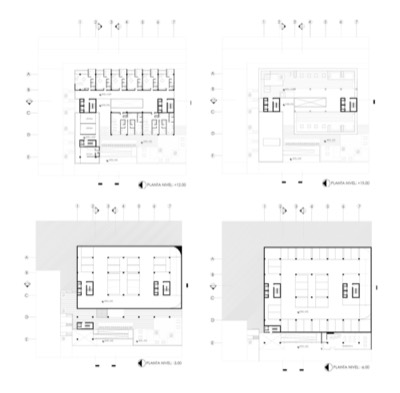
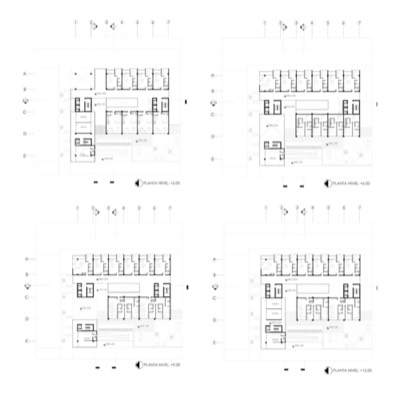
Edificio Nexo: planta del nivel 0,00 en su propia lámina

diff --git a/src/proyectos.js b/src/proyectos.js
@@ -218,8 +218,9 @@ export const disenos = [
       'Axonometrías',
       'Análisis: ubicación y uso mixto',
       'Análisis: estructura, envolvente y circulación',
-      'Plantas de los niveles 0,00 (cafetería, gimnasio y local comercial), +3,00, +6,00 y +9,00 (vivienda y oficinas)',
-      'Plantas de los niveles +12,00 (vivienda y oficinas), +15,00 (terrazas), −3,00 y −6,00 (estacionamientos y hemeroteca)',
+      'Planta nivel 0,00: cafetería, gimnasio y local comercial',
+      'Plantas de los niveles +3,00, +6,00, +9,00 y +12,00: vivienda y oficinas',
+      'Plantas de los niveles +15,00 (terrazas), −3,00 y −6,00 (estacionamientos y hemeroteca)',
       'Sección',
     ]),
   },

diff --git a/CLAUDE.md b/CLAUDE.md
@@ -113,7 +113,7 @@ Sitio en vivo: Vercel, desplegado automáticamente desde `main` de https://githu
 - `centro-comunitario` (10, rehecho el 2026-11-16; T4 `CENTRO COMUNITARIO.pdf`, 9 láminas horizontales con franja inferior USFQ + nombres, nunca incluirla): 01 vista desde la González Suárez y 02 vista del ingreso (pág. 2 `[.648,.04,.934,.293]`, `[.648,.343,.934,.582]`) · 03–06 **láminas limpias**: "El lugar" + "Equinoccio" con la implantación (pág. 2 `[.064,.056,.51,.551]`, bordes difuminados); "Partido" + "Forma" con 4 diagramas (pág. 1 `[.021,.196,.181,.315]`, `[.016,.32,.186,.438]`, `[.035,.48,.175,.578]`, `[.028,.592,.186,.728]` con fondo gris 241 blanqueado); "Estructura" + "Luz y circulación" con estructura `[.039,.772,.173,.92]` y el despiece `[.435,.05,.725,.497]` (leyenda original borrada y **rehecha en HTML**: Envolvente, Núcleos, Circulación horizontal, Terrazas y muebles fijos, Patio de esculturas); "Programa" con la separación del programa `[.435,.487,.737,.69]` · 07 planta 0,00 (pág. 3) · 08 plantas +4,50 y +9,50 apiladas (pág. 4) · 09 planta −4,00 (pág. 5) · 10 secciones A-A′ y B-B′ apiladas (pág. 6), rótulos de escala borrados o fuera del recorte. **Fuera**: vistas interiores, axonometrías (pág. 9), fachadas (págs. 7–8), cuadro de áreas, diagrama servidor/servido. Portada (axonometría) sin cambios; **franja del inicio = vista del ingreso** (`centro-comunitario/02.jpg`, `pos` 50% 68%), pedido de Joaquín. Lámina 05: despiece centrado en la hoja (pedido de Joaquín). Lámina 04: los 4 diagramas en cuadrícula 2 × 2 de celdas iguales (380 px de alto, imagen centrada, `align-content:center`), pedido de Joaquín: "disparejos" → ordenados. Gramática de las 4 láminas revisada.
 - `facultad-arquitectura` (9, rehecha el 2026-11-16; Joaquín pidió quitar las 2 vistas aéreas y las 2 secciones en perspectiva, y **unir plantas en láminas blancas, una encima de otra**: hoy 01 vista del conjunto, 02 vista desde la calle, 03–05 láminas limpias, 06 planta nivel 0, 07 plantas +3 y +6, 08 plantas +10,50, +14 y −3 (HTML: plantas de 1760 px de ancho con pie gris en Avenir Next), 09 sección con **ejes aclarados** (`ejes.mjs sec.jpg out 300 300 540 0.3`: círculos y líneas finas de eje al 30 %; pedido de Joaquín: "menos invasivos") y **niveles aclarados igual** (`aclara.mjs in out 150 0.3 50,680,197,315`: rótulos "N+ …" y sus líneas); lo que sigue es la versión de 16: T5 `ENTREGA FINAL.pdf`, 5 págs. de 1413×2000 con franja USFQ abajo): 01–04 vistas 3D (pág. 5 `[.003,.642,.49,.838]`, `[.01,.396,.482,.585]`, `[.509,.396,.978,.584]`, `[.5,.642,.989,.838]`) · 05–07 **láminas limpias**: "Concepto" + organigrama (pág. 1 `[.54,.064,.88,.21]`) + implantación (`[.488,.237,.928,.524]`, `oscurece.mjs` gamma 5); "Núcleo central" + "Aulas" con fluidez espacial `[.08,.229,.435,.312]` y ejes `[.068,.334,.48,.418]`; "Estructura" + "Articulación" con estructura `[.578,.528,.915,.63]`, articulación `[.058,.548,.47,.62]` y malla `[.044,.432,.48,.525]` (textos de Estructura y Articulación escritos por Claude a partir de los dibujos y renders: la lámina no tenía texto para eso) · 08–13 plantas 0, +3, +6 (pág. 2), +10,50, +14 (pág. 3) y −3 (pág. 2, recortada a la izquierda), rótulos "PLANTA NIVEL … ESC" borrados enteros · 14 sección longitudinal (pág. 1 `[.03,.632,.94,.932]`) · 15–16 secciones en perspectiva (pág. 5 `[.035,.093,.446,.274]`, `[.459,.093,.833,.274]`). Sin fachadas, sin los 4 cortes del espacio jerárquico ni los 2 cortes transversales. Portada y franja sin cambios.
 - `biblioteca` (10, rehecha el 2026-11-16; **franja del inicio = imagen 02, vista del conjunto** (`biblioteca/02.jpg`, `pos` 50% 10%), pedido de Joaquín; **Joaquín pidió quitar las 2 axonometrías y las 2 vistas interiores** (hall y sala de lectura): hoy 01 vista Juan de Azcaray, 02 vista del conjunto, 03–06 láminas limpias, 07 implantación, 08 planta baja, 09 plantas altas, 10 secciones; lo que sigue es la versión de 14: T6 `ENTREGA FINAL.pdf`, 8 págs., horizontales 2000×1413 (1, 3, 4, 6) y verticales 1413×2000 (2, 5, 7, 8)): 01 vista Juan de Azcaray (pág. 7 `[.038,.645,.957,.94]`) · 02 vista del conjunto (pág. 1 `[.296,.705,.97,.977]`) · 03–04 axonometrías (pág. 8 `[.04,.05,.96,.45]`, `[.04,.475,.96,.85]`; rótulos fantasma casi blancos borrados con `blanquea_claros.mjs`, marco derecho borrado) · 05–08 **láminas limpias**: "Dualidad" + círculos del punto de inflexión (pág. 1 `[.33,.12,.94,.375]`); "Forma" + partido `[.345,.415,.445,.695]`, programa `[.77,.455,.965,.68]` (rótulo tapado "LECCIÓN" reescrito como "COLECCIÓN" en Arial 37 px) y forma (pág. 2); "Circulación" + "Espacialidad"; "Envolvente" + "Estructura" (diagramas de la pág. 2, aislados de los vecinos con `conserva.mjs`) · 09 implantación (pág. 3 `[.032,.16,.507,.832]`) · 10 planta baja (`[.508,.16,.962,.832]`) · 11 primera, segunda y tercera planta lado a lado (pág. 4) · 12 secciones longitudinal y transversal apiladas (pág. 7 `[.035,.045,.957,.179]` y `[.035,.195,.957,.328]`, niveles aclarados) · 13 hall de ingreso y 14 sala de lectura (pág. 6, sin sus rótulos). **Fuera**: cuadro de áreas, 4 alzados, 2 cortes fugados, los otros 2 cortes de la pág. 7. Textos de las láminas resumidos de la pág. 1 y 2. Portada y franja sin cambios.
-- `edificio-nexo` (7, rehecho el 2026-11-16; **plantas juntadas** a pedido de Joaquín en dos láminas 2 × 2: 05 = 0, +3, +6, +9 y 06 = +12, +15, −3, −6 (bordes del marco original borrados), 07 sección; antes: **Joaquín pidió quitar la 02, vista desde la calle Carlos Arroyo** —la numeración que sigue es la anterior: hoy todo corre un número—; páginas de 1413×2000 con franja USFQ abajo, nunca incluirla): 01 vista desde la calle José Correa (pág. 6 `[0,.008,1,.39]`, título borrado con `rellena.mjs` 0,0,880,85 a 2400 px) · 02 render de la esquina (pág. 1 `[.348,0,1,.258]`) · 03 las 4 axonometrías juntas (pág. 6 `[0,.418,1,.862]`) · 04 **lámina limpia** "Ubicación" + "Uso mixto" con la implantación (pág. 1 `[.348,.285,1,.648]`, `lado` 2800, **líneas oscurecidas con `oscurece.mjs` gamma 6** porque Joaquín la vio "muy bajita"; dibujo de 1140 px de ancho; el rótulo "Carlos Arrollo - Vía Local" se reemplazó por "Carlos Arroyo - Vía Local" en Avenir Next 47 px vertical — **la calle es Carlos Arroyo** (confirmado por Joaquín); la imagen 2 es la "Vista desde la calle Carlos Arroyo") · 05 **lámina limpia** "Estructura", "Envolvente", "Circulación" con sus diagramas (pág. 1 `[.012,.378,.315,.51]`, `[.004,.596,.338,.697]`, `[.06,.793,.3,.957]`; fondo gris 229 pasado a blanco con `fondo_blanco.mjs` y, en circulación, con `gris_global.mjs`) · 06–13 plantas **en el orden pedido por Joaquín: nivel 0, luego +3, +6, +9, +12, +15 y al final los subsuelos −3, −6** (págs. 2 y 3, cuadrantes `[.012,.055,.49,.4]` `[.505,.055,.995,.4]` `[.012,.495,.495,.84]` `[.51,.495,.998,.84]`); la planta de terrazas decía "+12.00" por error: se cambió el 2 por un 5 (Avenir Next 41,5 px, HTML + `compone.mjs`) · 14 **una sola sección** (1-1′, pág. 4 `[.12,.335,.92,.553]`), rotulada "Sección": Joaquín pidió quitar las otras dos (A-A′ y 2-2′). Sin fachadas. Portada y franja sin cambios.
+- `edificio-nexo` (8, rehecho el 2026-11-16; **plantas juntadas** a pedido de Joaquín: 05 = planta 0,00 sola (pedido de Joaquín), 06 = +3, +6, +9, +12 (2 × 2), 07 = +15 arriba al centro y −3, −6 abajo (bordes del marco original borrados), 08 sección; antes: **Joaquín pidió quitar la 02, vista desde la calle Carlos Arroyo** —la numeración que sigue es la anterior: hoy todo corre un número—; páginas de 1413×2000 con franja USFQ abajo, nunca incluirla): 01 vista desde la calle José Correa (pág. 6 `[0,.008,1,.39]`, título borrado con `rellena.mjs` 0,0,880,85 a 2400 px) · 02 render de la esquina (pág. 1 `[.348,0,1,.258]`) · 03 las 4 axonometrías juntas (pág. 6 `[0,.418,1,.862]`) · 04 **lámina limpia** "Ubicación" + "Uso mixto" con la implantación (pág. 1 `[.348,.285,1,.648]`, `lado` 2800, **líneas oscurecidas con `oscurece.mjs` gamma 6** porque Joaquín la vio "muy bajita"; dibujo de 1140 px de ancho; el rótulo "Carlos Arrollo - Vía Local" se reemplazó por "Carlos Arroyo - Vía Local" en Avenir Next 47 px vertical — **la calle es Carlos Arroyo** (confirmado por Joaquín); la imagen 2 es la "Vista desde la calle Carlos Arroyo") · 05 **lámina limpia** "Estructura", "Envolvente", "Circulación" con sus diagramas (pág. 1 `[.012,.378,.315,.51]`, `[.004,.596,.338,.697]`, `[.06,.793,.3,.957]`; fondo gris 229 pasado a blanco con `fondo_blanco.mjs` y, en circulación, con `gris_global.mjs`) · 06–13 plantas **en el orden pedido por Joaquín: nivel 0, luego +3, +6, +9, +12, +15 y al final los subsuelos −3, −6** (págs. 2 y 3, cuadrantes `[.012,.055,.49,.4]` `[.505,.055,.995,.4]` `[.012,.495,.495,.84]` `[.51,.495,.998,.84]`); la planta de terrazas decía "+12.00" por error: se cambió el 2 por un 5 (Avenir Next 41,5 px, HTML + `compone.mjs`) · 14 **una sola sección** (1-1′, pág. 4 `[.12,.335,.92,.553]`), rotulada "Sección": Joaquín pidió quitar las otras dos (A-A′ y 2-2′). Sin fachadas. Portada y franja sin cambios.
 - `galeria-talleres` (11, rehecha el 2026-11-16 con los criterios de Mundaneum): recortes de T8 `laminas finales.pdf` pág. 1 (página 2:1) — 01 maqueta vista desde arriba `[.025,.17,.475,.615]` · 02 **lámina nueva** al estilo limpio ("El muro como organizador" + "Recorrido", texto resumido de la lámina; mapas aldea `[.025,.815,.115,.91]` y manzana `[.12,.774,.207,.94]` con bordes difuminados; el tercer mapa no va porque repite la planta) · 03–04 fotos del sitio (x `.889–.974`, y `.0522–.2216` y `.2344–.4033`) · 05 planta con leyenda `[.525,.05,.877,.59]` (escala gráfica y norte borrados con `rellena.mjs` 2220,1770,180,71 a 2400 px) · 06 axonometría `[.522,.635,.655,.905]` · 07 sección A-A′ `[.665,.63,.88,.765]` · 08 sección B-B′ `[.665,.785,.88,.925]` (sin rótulos de escala) · 09–11 fotos de la maqueta (y `.4150–.5844`, `.5972–.7666`, `.7784–.9478`). Se quitaron las dos mitades completas de la lámina. Portada: maqueta blanca `[.02,.17,.48,.68]`.
 - `mundaneum-beirut` (16, orden y composición pedidos por Joaquín el 2026-11-16): 01 render de la fachada de arcos y 03 concepto + vista interior (PORTAFOLIO págs. 21 y 17), 04 circulación y recorrido (PORTAFOLIO pág. 20); de las dos láminas de `ENTREGA FINAL.pdf` (render directo del PDF con `render.mjs`, `lado` 2000; p1/p2 = pág. 1/2): 02 perspectiva [p2 .024,.017,.778,.242] · 05 emplazamiento [p1 .024,.017,.255,.300] · **06 y 07 = láminas rediseñadas al estilo de las 03/04** (Joaquín rechazó la composición con las cajas grises originales): hoja 2000×1414 blanca, texto a la izquierda en Avenir Next (títulos 44 px, cuerpo 20,5 px justificado) y dibujos sueltos sin cajas ni rótulos en negrita. **06**: "Ubicación", "Plan masa", "Foro romano" (textos resumidos del PORTAFOLIO, págs. 6, 12 y 16) + mapas plan masa [p1 .024,.317,.255,.492] (fondo gris pasado a blanco con `fondo_blanco.mjs`, rótulo borrado), ubicación [p1 .024,.508,.175,.651], tipología [p1 .024,.680,.175,.823] y ejes [p1 .024,.842,.175,.987], con leyendas redibujadas en HTML (colores #dfb875 #939089 #b8ac9c #b19669 #c39645; ejes #e0c18b, peatonales #a78b5b, vehiculares #b8ac9c). **07**: "Estructura" y "Programa" (textos del PORTAFOLIO págs. 18–19) + estructura [p1 .573,.258,.758,.367] y programa [p1 .766,.258,.977,.484] sin los rótulos "ESTRUCTURA:"/"PROGRAMA:". Se arman con HTML + `~/Desktop/pdf-tools/compone.mjs pagina.html:salida.jpg` (captura con Chrome el elemento `#l`); `texto.mjs in.pdf` saca solo el texto de un PDF · 08 planta baja [p1 .279,.507,.977,.787], 09 +6 [p2 .024,.514,.350,.742], 10 +12 [p2 .334,.514,.660,.742], 11 −6 [p2 .664,.514,.977,.742] — **sin "ESC 1:…"** (borrado con `rellena.mjs`; queda "PLANTA BAJA", "PLANTA N:+6.00"…) · 12 sección A-A′ [p1 .279,.803,.977,.987], 13 sección 1-1′ [p2 .393,.258,.977,.492] — también **sin "ESC: 1:300"** (texto blanco sobre negro, rellenado de negro) · 14 vista interior [p2 .024,.758,.371,.987] · 15–16 maqueta en su contexto (`MAQUETA.pdf` 1, 2). **Quitados a pedido de Joaquín**: láminas "MAQUETA FINAL", plan masa / planta / detalle de fachada / corte del PORTAFOLIO, las láminas completas de la entrega final y las **fachadas norte y oeste** (los cortes sí van).
 
